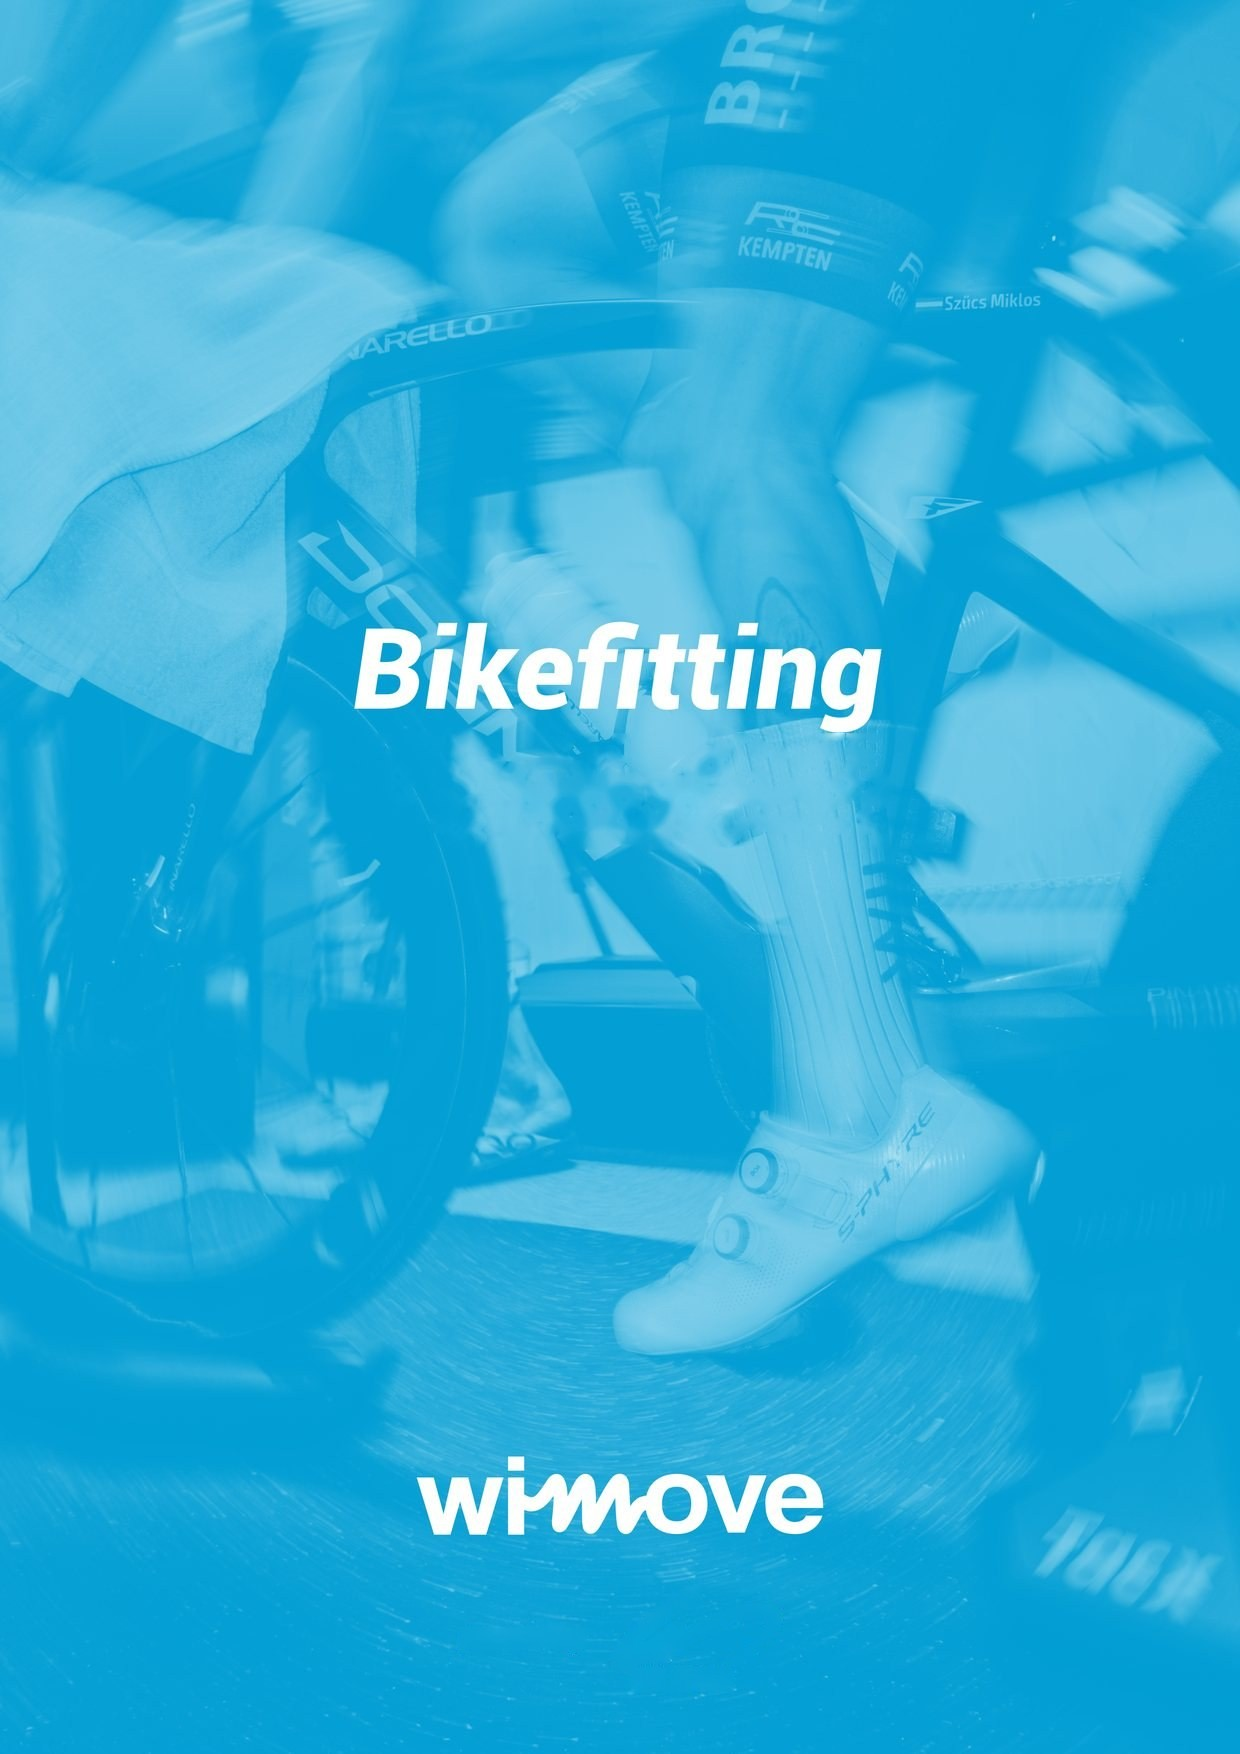
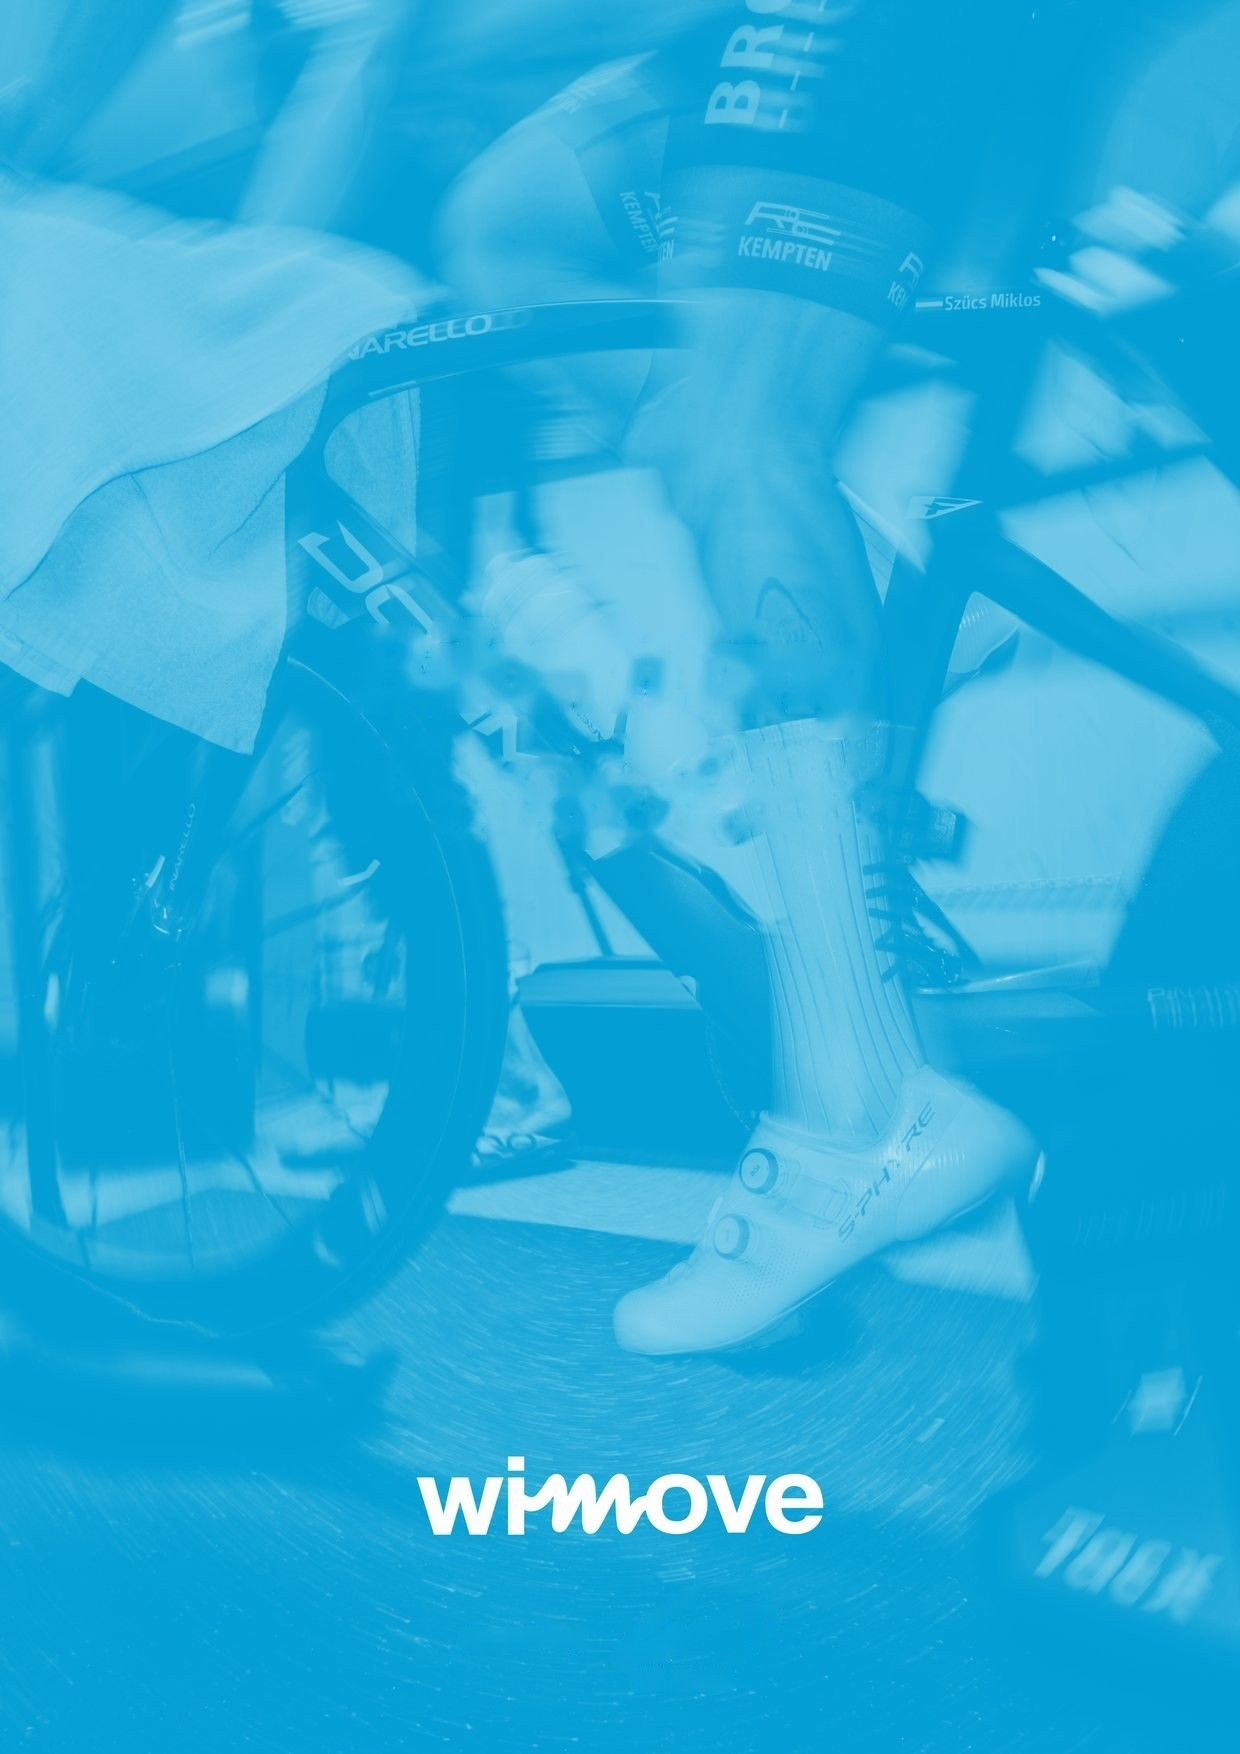
Bericht: Deckblatt zeigt nur den Paketnamen; Titel „<Paket> Report“, ohne Paket „WiFitPro Report“
Claude-Session: https://claude.ai/code/session_01V7kRTJjXfSGJD8Spm1M1pz

Changed region(s): [[0.2758, 0.3387, 0.7355, 0.431]]

diff --git a/app/index.html b/app/index.html
@@ -3412,9 +3412,8 @@ const findPkg=id=>id?allPkgs().find(x=>x.id===id):null;
 const pdfTier=()=>S.basic?"plus":(findPkg(S.pdfTier)?S.pdfTier:"");   /* "" = kein Paket gewählt (Standard) */
 /* Deckblatt: eingebautes Paket → eigenes Bild; eigenes Paket → Paketname; ohne Paket nach Inhalt (nur Patrick) bzw. „Report“ */
 const pdfCover=()=>{ const id=pdfTier(), pk=findPkg(id);
-  if(pk){ const std=PDF_TIERS.find(t=>t[1].toLowerCase()===String(pk.name).trim().toLowerCase());   // Plus/Advanced/Professional: gestaltetes Deckblatt
-    return std?{file:`brand/cover_${std[0]}.jpg`,name:std[1]}:{custom:pk.name,name:pk.name}; }
-  return {custom:"",name:""}; };   /* ohne Paket: Deckblatt nur mit „Bikefitting“, Titel „WiMove Bikefitting“ */
+  if(pk) return {custom:String(pk.name).trim(),name:String(pk.name).trim()};   /* Deckblatt zeigt nur den Paketnamen */
+  return {custom:"WiFitPro",name:""}; };   /* ohne Paket: Deckblatt „WiFitPro“, Titel „WiFitPro Report“ */
 /* Vorauswahl beim Öffnen: kein Paket, alle Inhalte oder ein Paket */
 function applyPdfDefault(){
   if(S.basic) return; const d=PDFPREFS.def||"";
@@ -3587,13 +3586,19 @@ function renderBrandForm(){
   $("brReset").onclick=async()=>{ brandDraft={lines:["","",""],logo:null,logoWhite:true}; const where=await brandSave(JSON.parse(JSON.stringify(brandDraft))); renderBrandForm(); $("brNote").textContent=`Standard wiederhergestellt (${where}).`; };
   prev();
 }
-async function customCover(base,name){
+async function customCover(base,name){   /* Deckblatt ohne Titel, Paketname groß in ein oder zwei Zeilen */
   const im=await loadImgEl(base), c=document.createElement("canvas"); c.width=im.naturalWidth; c.height=im.naturalHeight;
   const x=c.getContext("2d"), k=c.width/1240; x.drawImage(im,0,0);
   try{ await document.fonts.load(`italic 700 ${Math.round(106*k)}px Barlow`); }catch(e){}
-  let f=Math.round(106*k); const fam=" Barlow, Arial, sans-serif"; x.font=`italic 700 ${f}px${fam}`;
-  while(x.measureText(name).width>c.width*0.86&&f>30){ f-=2; x.font=`italic 700 ${f}px${fam}`; }
-  x.fillStyle="#fff"; x.textAlign="center"; x.textBaseline="alphabetic"; if(name) x.fillText(name,c.width/2,830*k);
+  const fam=" Barlow, Arial, sans-serif", maxW=c.width*0.86; let f=Math.round(106*k); x.font=`italic 700 ${f}px${fam}`;
+  x.fillStyle="#fff"; x.textAlign="center"; x.textBaseline="alphabetic";
+  let lines=[name];
+  if(name&&x.measureText(name).width>maxW*0.55&&name.includes(" ")){   // längere Namen wie „Bikefitting Plus“ zweizeilig wie im Original: an der Lücke nahe der Mitte umbrechen
+    const sp=[...name.matchAll(/ /g)].map(m=>m.index); const cut=sp.reduce((b,i)=>Math.abs(i-name.length/2)<Math.abs(b-name.length/2)?i:b,sp[0]);
+    lines=[name.slice(0,cut),name.slice(cut+1)]; }
+  while(lines.some(l=>x.measureText(l).width>maxW)&&f>30){ f-=2; x.font=`italic 700 ${f}px${fam}`; }
+  const ys=lines.length>1?[715,830]:[775];
+  if(name) lines.forEach((l,i)=>x.fillText(l,c.width/2,ys[i]*k));
   return c.toDataURL("image/jpeg",0.9);
 }
 async function makePdf(){
@@ -3690,7 +3695,7 @@ async function makePdf(){
 
   /* Titelkopf */
   col(C.pri,"Fill"); doc.rect(0,0,210,34,"F");
-  const RT=S.basic?"WiFitBasic Report":(tier[1]||"WiMove Bikefitting");   /* Paketname, sonst WiMove Bikefitting */
+  const RT=S.basic?"WiFitBasic Report":`${tier[1]||"WiFitPro"} Report`;   /* Paketname + Report, sonst WiFitPro Report */
   font(20,true); col([255,255,255]); doc.text(RT,M,16);
   font(10.5); doc.text(pdfTxt(`${Bf.name||"Name nicht angegeben"}${Bf.date?" · "+new Date(Bf.date).toLocaleDateString("de-DE"):""}`),M,24);
   const cb=findBike(S.sel); font(8.5); doc.text(pdfTxt(`Rad: ${cb?`${cb.b} ${cb.m} ${cb.s}`:"-"} · Fahrstil: ${P.style}`),M,29.5);
@@ -3846,7 +3851,7 @@ async function makePdf(){
     else doc.text(pdfTxt(`${Bf.name||""} · Seite ${i}/${n}`),210-M,292,{align:"right"});
     doc.setTextColor(0); }
   if(BR){ doc.addPage(); doc.addImage(BR.back,"JPEG",0,0,210,297); }
-  const fname=`${S.basic?"WiFitBasic":(tier[1]||"WiMove Bikefitting").replace(/[^A-Za-z0-9ÄÖÜäöüß_-]+/g,"_")}_Report_${(Bf.name||"Auswertung").replace(/[^A-Za-z0-9ÄÖÜäöüß_-]+/g,"_")}_${Bf.date||""}.pdf`;
+  const fname=`${S.basic?"WiFitBasic":(tier[1]||"WiFitPro").replace(/[^A-Za-z0-9ÄÖÜäöüß_-]+/g,"_")}_Report_${(Bf.name||"Auswertung").replace(/[^A-Za-z0-9ÄÖÜäöüß_-]+/g,"_")}_${Bf.date||""}.pdf`;
   const blob=doc.output("blob");
   let dl=null; try{ dl=window.claude&&window.claude.use?await window.claude.use("downloads"):null; }catch(e){}
   if(dl){
